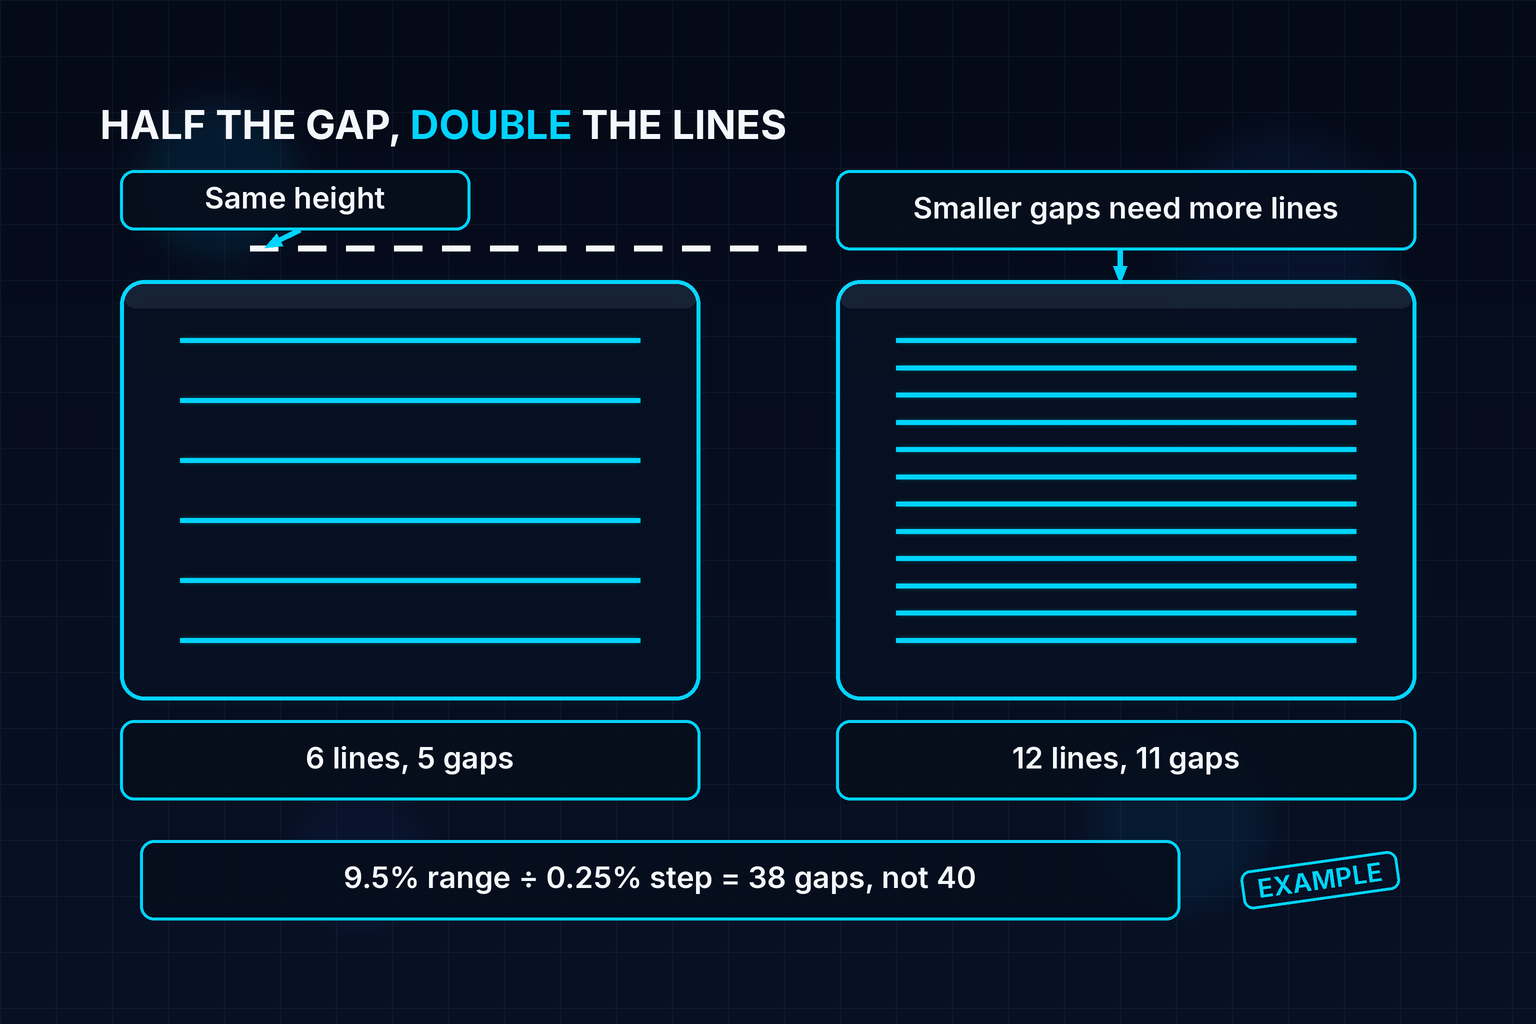
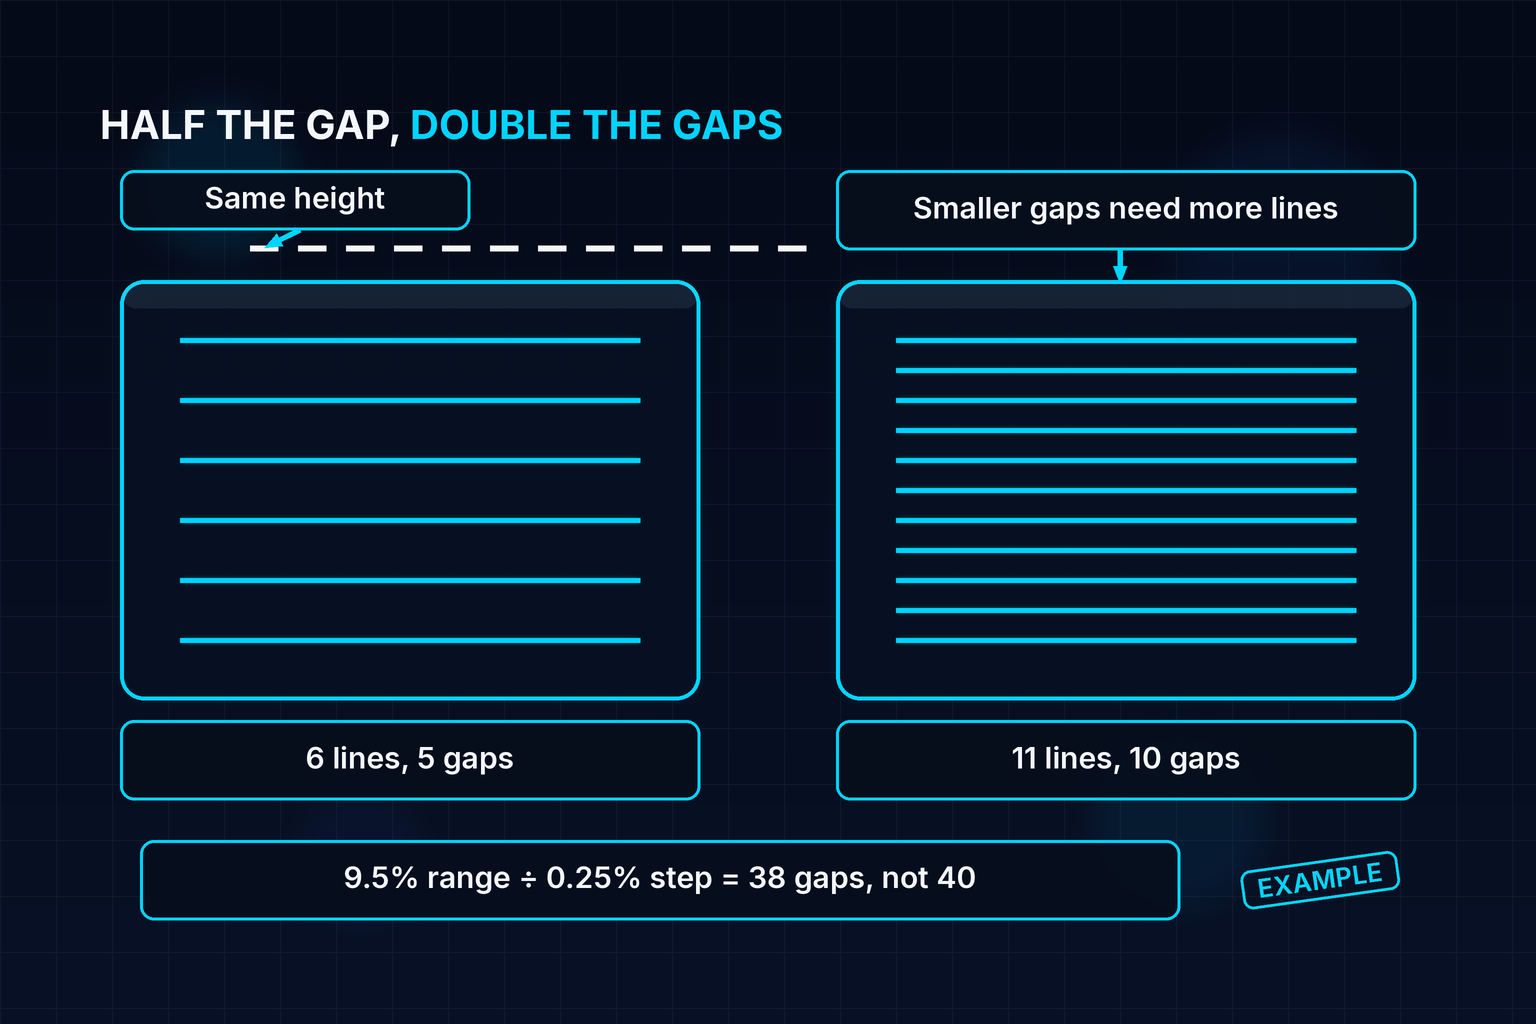
Correct BP-05 006 cursor2 to FAIL (12 lines / 11 gaps and 'double the lines' are arithmetically false). Add the standing arithmetic-vs-labels check to the rubric. Score cursor3 at 92a39e9: PASS, placed (6/5 and 11/10 on the same band; headline DOUBLE THE GAPS). BP-05 14/14. Local only, no push.

Changed region(s): [[0.5625, 0.3438, 0.9062, 0.625], [0.375, 0.0938, 0.5312, 0.1562], [0.6562, 0.7188, 0.8125, 0.75]]

diff --git a/blueprint-image-qa/bp04-11/REPORT.md b/blueprint-image-qa/bp04-11/REPORT.md
@@ -2,6 +2,8 @@
 
 Scored by Creative Studio, 14 Nov 2026 WITA. Standard: `skills/image-quality-standard` (7 categories, pass = every category >= 4 and no hard fail) plus Stewart's beginner-clear checks, applied strictly.
 
+**Standing check (14 Nov 2026 WITA):** For every still from now on, recount the drawn lines and gaps on the same band, and check every number, count and headline claim against the arithmetic and the narration, not just against the labels. A label that merely matches a wrong drawing is still a fail. Card or box borders are not grid lines, consistent with how BP-05 015 counts '7 lines, 6 gaps' (the seven interior strokes only). Over the same band, halving the step doubles the gaps, not the lines: *n* lines / *n*−1 gaps become 2(*n*−1)+1 lines / 2(*n*−1) gaps (so 6 lines / 5 gaps become 11 lines / 10 gaps, not 12 lines / 11 gaps).
+
 **Result (stage 1): 0 pass / 161 fail of 161. Current after BP-04 remake round 2 and the strict arrow re-check: 13/161 pass, BP-04 13/20.** No BP-04..BP-11 lesson is passing. Every image needs a remake.**
 
 - Scope: every beat image in `course/scripts/bp-04..bp-11*.json` @ `cursor/blueprint-professional-rebuild-d1f6` fbb3f9c. `course/blueprint-rebuild/BP04-11_IMAGE_MANIFEST.json` was not on the branch yet (404), so scope comes from the scripts. Re-check against the manifest when it lands.
@@ -683,3 +685,34 @@ Headline remains 'HALF THE GAP, DOUBLE THE LINES' over the 6 vs 12 schematic. Dr
 
 ### Updated counts
 - **BP-05: 14/14 — 100%.**
+
+
+---
+
+## Correction of BP-05 006 cursor2, standing check, and cursor3 at 92a39e9
+
+The PASS of BP-05 006 at f184f25 (`gen/bp-05-spacing-and-range/006/cursor2.png`, commit 51f1823) was wrong. The labels '6 lines, 5 gaps' and '12 lines, 11 gaps' matched the drawing, but they were never checked against the arithmetic. Over the same band, halving the step doubles the gaps, not the lines: 5 gaps / 6 lines become 10 gaps / 11 lines. '12 lines, 11 gaps' and the headline 'HALF THE GAP, DOUBLE THE LINES' are false. Cursor2 is recorded as a FAIL with that reason.
+
+The standing check above is now part of the rubric: recount drawn lines and gaps for the same band, and check every number, count and headline claim against the arithmetic and the narration, not just the labels.
+
+Fetched the authentic 1536×1024 RGB remake from `kyleashton88-cyber/claude@92a39e9feebc476db4693878fa47cb15b5a1ff1d` via the public GitHub Contents API (base64). Saved as `gen/bp-05-spacing-and-range/006/cursor3.png`. Git blob matches the API sha: `eeeb31b43a36b9cccb8f01bb3e6c9a9b73e7f2dd` (159262 bytes).
+
+| File | Result | Margins (l/r/t/b) | Scores | Blob |
+|---|---|---|---|---|
+| gen/bp-05-spacing-and-range/006/cursor2.png | FAIL (correction) | 103/120/109/104 | 2/5/5/5/5/—/1 | `e9ae1f2148e2043acb73731843c6ec4d30fb6c5d` |
+| gen/bp-05-spacing-and-range/006/cursor3.png | PASS | 103/120/109/104 | 5/5/5/5/5/—/5 | `eeeb31b43a36b9cccb8f01bb3e6c9a9b73e7f2dd` |
+
+Cursor3: headline 'HALF THE GAP, DOUBLE THE GAPS'. Borders not counted (same method as BP-05 015). Left box 6 interior lines / 5 gaps of 60px; right box 11 interior lines / 10 gaps of 30px; same band height; right gaps exactly half. 9.5/0.25 = 38 gaps = 39 lines, not 40, on a detached pill that names gaps, not lines. Both arrow tips touch. Placed, source cursor.
+
+### Updated counts
+- **BP-05: 14/14 — 100%.** (Cursor2 fail is on the record; cursor3 is the placed pass.)
+
+### Recheck of other passed BP-04..11 stills with a numeric count or arithmetic claim
+The new standing check was applied to the other passed stills that show a count or arithmetic claim. Verdicts were **not** changed in this commit.
+
+- **BP-05 004 would now FAIL.** Headline '20 LINES MAKE 19 GAPS' with labels '20 lines' / '19 gaps between them'. The outer card frame (y=185 and y=901, full-width strokes) is not a grid line. The stack itself has 19 interior lines (y=243–854) and 18 gaps, not 20 lines / 19 gaps.
+- BP-05 005 holds: 20 drawn rungs = 19 gaps; '19 gaps' and '19 × 0.5% = 9.5%' are correct.
+- BP-05 010, 013, 014, 018 hold: typography only; 20×0.5%=10% marked wrong, 19×0.5%=9.5% marked right; 013's '0.5% · 19 gaps · 20 orders' is consistent (20 lines / 19 gaps).
+- BP-05 015 holds: 7 interior lines / 6 gaps, card borders excluded.
+- BP-09 007 and 010 hold: each left/main card has 7 interior lines / 6 gaps, card borders excluded, matching the headlines and the 010 caption.
+- BP-07 005 ('FIVE BOXES TO COPY' / five fields), BP-08 006 ('Middle 27630', the house mid-level), BP-10 012 ('DO NOT DOUBLE THE COUNT'), and the BP-09/BP-11 '5x' / 'times-number' stills hold: their claims match the page and the narration; they do not show a miscounted grid.
